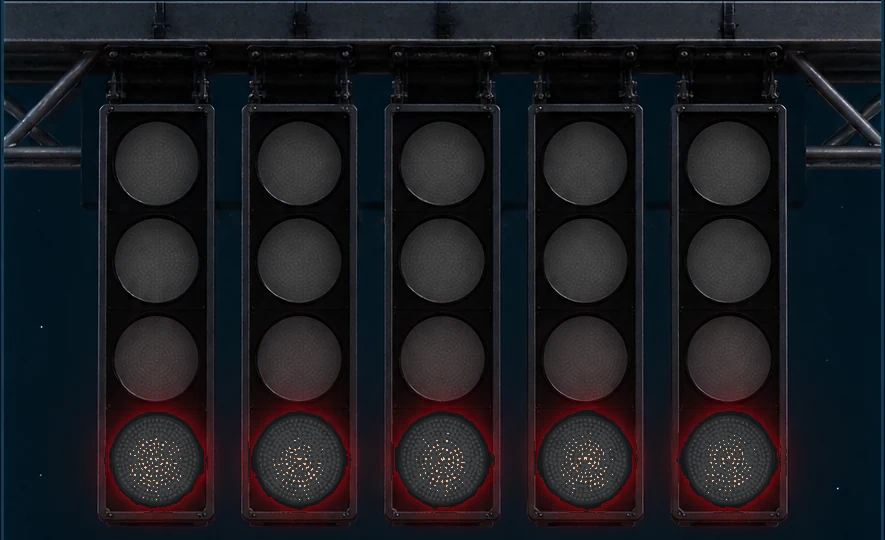
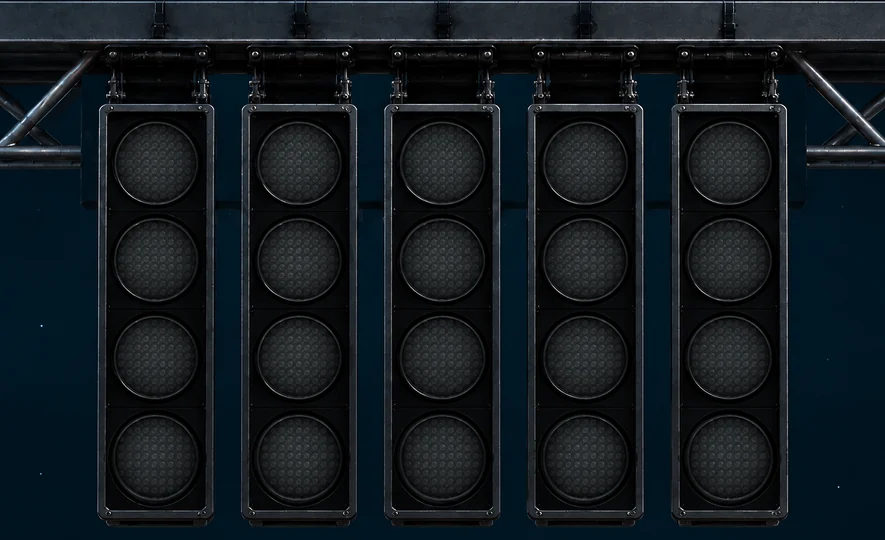
Add files via upload

diff --git a/src/styles.css b/src/styles.css
@@ -182,7 +182,7 @@ button:disabled{cursor:not-allowed;opacity:.38;}
 .spirit-stability{margin:0 0 8px;min-height:18px;font-weight:700;text-align:center;}.tanks-wrap{position:relative;overflow:visible;}.tanks{display:flex;align-items:flex-end;justify-content:center;gap:11px;padding:14px 5px 8px;}.tank{width:62px;position:relative;overflow:visible;transition:transform .18s ease;}.tank-vessel{position:absolute;left:0;right:0;bottom:0;top:14px;border:1px solid #5a8493;border-radius:12px 12px 8px 8px;overflow:hidden;background:linear-gradient(90deg,rgba(255,255,255,.025),rgba(1,12,18,.72) 34%,rgba(1,12,18,.58) 70%,rgba(255,255,255,.035));box-shadow:inset 0 0 24px rgba(255,174,44,.025);transition:border-color .18s ease,box-shadow .18s ease;}.tank-vessel::after{content:"";position:absolute;top:9px;bottom:9px;left:50%;width:1px;background:rgba(255,255,255,.065);z-index:3;}.tank-spout{position:absolute;z-index:7;top:1px;left:50%;width:25px;height:14px;transform:translateX(-50%);border:1px solid #5a8493;border-bottom:0;border-radius:5px 5px 2px 2px;background:linear-gradient(180deg,#173947,#0a202a);box-shadow:inset 0 1px rgba(255,255,255,.07);}.tank-spout::after{content:"";position:absolute;left:4px;right:4px;top:4px;height:2px;background:rgba(112,207,236,.16);border-radius:2px;}.tank-glass{position:absolute;inset:7px;border-radius:7px;background:linear-gradient(90deg,rgba(255,255,255,.08),transparent 25%,transparent 70%,rgba(255,255,255,.04));z-index:3;pointer-events:none;}.tank-cap{position:absolute;left:9px;right:9px;top:0;height:6px;border-radius:0 0 4px 4px;background:rgba(113,180,202,.23);z-index:4;}.tank-fill{position:absolute;bottom:0;left:0;right:0;height:0;background:linear-gradient(180deg,#ffd56b 0%,#ffab31 34%,#ff8420 70%,#d85c13 100%);box-shadow:0 -5px 24px rgba(255,185,67,.25),0 0 28px rgba(255,128,24,.2);transition:height .3s cubic-bezier(.22,.75,.28,1);}.tank.full .tank-vessel{border-color:#ffb341;box-shadow:0 0 18px rgba(255,154,29,.18),inset 0 0 18px rgba(255,174,44,.06);}.tank.full .tank-spout{border-color:#d88f31;}.tank.active{transform:translateY(-3px);}.tank.active .tank-vessel{border-color:#ffd071;box-shadow:0 0 18px rgba(255,174,44,.16);}.tank.active .tank-spout{border-color:#ffd071;}.tank-smoke{position:absolute;z-index:10;left:50%;top:-20px;width:68px;height:76px;transform:translateX(-50%);pointer-events:none;}.tank-smoke i{position:absolute;left:50%;bottom:10px;width:25px;height:20px;border-radius:50%;opacity:0;background:radial-gradient(circle at 42% 44%,rgba(249,252,253,.92),rgba(190,208,215,.6) 42%,rgba(100,131,143,0) 73%);filter:blur(.7px);}.tank-smoke i:nth-child(2){margin-left:-15px;}.tank-smoke i:nth-child(3){margin-left:15px;}.tank.venting .tank-smoke i{animation:tankVent 1.18s ease-out both;}.tank.venting .tank-smoke i:nth-child(2){animation-delay:.08s;}.tank.venting .tank-smoke i:nth-child(3){animation-delay:.15s;}@keyframes tankVent{0%{opacity:0;transform:translate(-50%,18px) scale(.45)}15%{opacity:.95}55%{opacity:.7}100%{opacity:0;transform:translate(-50%,-48px) scale(1.75)}}.spirit-instruction{text-align:center;color:#a5c7d4;font-size:11px;line-height:1.45;letter-spacing:.03em;}.ab{display:grid;grid-template-columns:1fr 1fr;gap:12px;margin-top:0;}.charge{border-radius:12px;border:1px solid #b7671f;background:linear-gradient(180deg,#6a3213,#3b1b0b);color:#ffd08a;font-family:var(--display);}.charge:active{transform:translateY(1px);filter:brightness(1.25);}@media(max-width:390px){.tanks{height:328px;gap:8px;padding-left:2px;padding-right:2px;}.tank{width:54px;height:300px;}.tank-spout{width:22px;}.charge{height:82px;}}
 .comet-panel{padding:16px 14px 15px;overflow:hidden;}.comet-score{display:flex;align-items:center;justify-content:space-between;color:#8fb7c7;font-size:9px;letter-spacing:.16em;text-transform:uppercase;}.comet-score strong{color:var(--cyan);font-family:var(--display);font-size:17px;letter-spacing:.04em;}.comet-progress-track{display:grid;grid-template-columns:repeat(10,1fr);gap:4px;margin:8px 0 12px;}.comet-progress-track i{height:5px;border:1px solid #24536a;border-radius:3px;background:#071d2a;transition:.18s;}.comet-progress-track i.on{border-color:#62ef9d;background:#62ef9d;box-shadow:0 0 9px rgba(98,239,157,.34);}.comet-instruction{text-align:center;color:#a9cbd8;font-size:11px;line-height:1.45;margin-bottom:12px;}.comet-game{position:relative;border:1px solid #245b73;border-radius:13px;overflow:hidden;background:linear-gradient(180deg,#061725 0%,#071d2c 46%,#061722 100%);box-shadow:inset 0 0 28px rgba(31,129,168,.08);}.comet-game::before{content:"";position:absolute;inset:0;background:linear-gradient(90deg,transparent 24.7%,rgba(85,184,220,.12) 25%,transparent 25.3%,transparent 49.7%,rgba(85,184,220,.12) 50%,transparent 50.3%,transparent 74.7%,rgba(85,184,220,.12) 75%,transparent 75.3%),repeating-linear-gradient(180deg,transparent 0 34px,rgba(61,149,184,.025) 34px 35px);pointer-events:none;}.comet-lanes{position:absolute;inset:0;display:grid;grid-template-columns:repeat(4,1fr);}.comet-lane{position:relative;border-right:1px solid rgba(69,158,193,.08);transition:.16s;}.comet-lane:last-child{border-right:0;}.comet-lane-guide,.comet-btn-icon,.comet-chevron{position:relative;display:inline-block;width:40px;height:40px;}.comet-lane-guide{position:absolute;top:10px;left:50%;transform:translateX(-50%);opacity:.3;}.comet-lane-guide i,.comet-btn-icon i,.comet-chevron i{position:absolute;width:20px;height:20px;border-top:6px solid currentColor;border-right:6px solid currentColor;left:50%;top:50%;transform-origin:center;}.comet-lane-guide i:first-child,.comet-btn-icon i:first-child,.comet-chevron i:first-child{transform:translate(-65%,-50%) rotate(45deg);}.comet-lane-guide i:last-child,.comet-btn-icon i:last-child,.comet-chevron i:last-child{transform:translate(-10%,-50%) rotate(45deg);}.comet-guide-left,.comet-btn-left .comet-btn-icon,.comet-note.left .comet-chevron{transform:rotate(180deg);}.comet-guide-down,.comet-btn-down .comet-btn-icon,.comet-note.down .comet-chevron{transform:rotate(90deg);}.comet-guide-up,.comet-btn-up .comet-btn-icon,.comet-note.up .comet-chevron{transform:rotate(-90deg);}.comet-guide-right,.comet-btn-right .comet-btn-icon,.comet-note.right .comet-chevron{transform:rotate(0deg);}.comet-lane-guide{color:rgba(126,224,255,.82);filter:drop-shadow(0 0 10px rgba(89,221,255,.38));}.comet-lane.hit{background:linear-gradient(180deg,transparent 38%,rgba(81,234,142,.03),rgba(81,234,142,.14));}.comet-lane.miss{background:linear-gradient(180deg,transparent 45%,rgba(244,95,75,.02),rgba(244,95,75,.12));}.comet-capture-line{position:absolute;z-index:3;left:0;right:0;top:78%;height:52px;transform:translateY(-50%);border-top:1px solid rgba(105,225,255,.75);border-bottom:1px solid rgba(105,225,255,.75);background:rgba(42,175,218,.08);box-shadow:0 0 20px rgba(69,205,246,.08),inset 0 0 18px rgba(69,205,246,.05);pointer-events:none;}.comet-capture-line span{position:absolute;right:7px;top:5px;font-size:7px;letter-spacing:.16em;color:#70cce9;}.comet-notes{position:absolute;inset:0;z-index:5;}.comet-note{position:absolute;top:2%;width:72px;height:72px;margin-left:-36px;border:1px solid rgba(94,224,255,.82);border-radius:14px;background:radial-gradient(circle at 50% 38%,rgba(22,154,215,.26),rgba(8,31,49,.9) 74%);display:grid;place-items:center;opacity:0;box-shadow:0 0 24px rgba(67,218,255,.28),inset 0 0 18px rgba(67,218,255,.08);will-change:top,left,transform;}.comet-note.active{opacity:1;}.comet-chevron{color:#ecfcff;filter:drop-shadow(0 0 4px rgba(190,249,255,.95)) drop-shadow(0 0 12px rgba(74,223,255,.95)) drop-shadow(0 0 22px rgba(40,178,255,.55));}.comet-tail{position:absolute;left:50%;bottom:100%;transform:translateX(-50%);width:8px;height:58px;border-radius:999px;background:linear-gradient(180deg,transparent,rgba(66,214,255,.88) 68%,rgba(66,214,255,.16));opacity:.62;filter:blur(.2px);}.comet-note::after{content:"";position:absolute;inset:7px;border:1px solid rgba(144,234,255,.16);border-radius:9px;}.comet-note.hit{opacity:1;border-color:#67ef9e;background:radial-gradient(circle at 50% 38%,rgba(68,207,123,.45),rgba(10,48,32,.96) 72%);transform:scale(1.14);box-shadow:0 0 24px rgba(79,238,145,.36);transition:.16s;}.comet-note.hit .comet-chevron{color:#effff5;}.comet-note.miss{opacity:.16;border-color:#e86b5a;transform:scale(.82);transition:.18s;}.comet-note.miss .comet-chevron{color:#f6b0a8;}.comet-hit-flash{position:absolute;z-index:2;inset:auto 0 16% 0;height:26%;opacity:0;background:radial-gradient(ellipse at center,rgba(88,244,154,.22),transparent 66%);pointer-events:none;}.comet-hit-flash.active{animation:cometFlash .3s ease-out;}@keyframes cometFlash{0%{opacity:0;transform:scale(.7)}35%{opacity:1}100%{opacity:0;transform:scale(1.15)}}.comet-game.complete .comet-capture-line{border-color:#66ef9d;background:rgba(83,236,145,.12);box-shadow:0 0 26px rgba(83,236,145,.2);}.comet-controls{display:grid;grid-template-columns:repeat(4,1fr);gap:8px;margin-top:10px;}.comet-btn{height:62px;border:1px solid #2f6b84;border-radius:10px;background:#09283a;color:#d8f7ff;transition:.12s;display:grid;place-items:center;}.comet-btn .comet-btn-icon{color:#e8fbff;filter:drop-shadow(0 0 5px rgba(170,246,255,.75)) drop-shadow(0 0 13px rgba(61,214,255,.48));}.comet-btn:active{transform:translateY(1px);border-color:var(--cyan);background:#0d3a52;}.comet-btn:disabled{opacity:.55;}.comet-state{text-align:center;margin-top:10px;}.sequence-box{display:none;}.arrow-pad{display:none;}@media(max-width:390px){.comet-game{height:360px;}.comet-note{width:64px;height:64px;margin-left:-32px;}.comet-btn{height:58px;}.comet-lane-guide,.comet-btn-icon,.comet-chevron{width:34px;height:34px;}.comet-lane-guide i,.comet-btn-icon i,.comet-chevron i{width:17px;height:17px;border-top-width:5px;border-right-width:5px;}}
 .jingle-stack{display:grid;}.jingle-stage{border:1px solid #245c73;border-radius:12px;background:linear-gradient(180deg,#071d2a,#051824);transition:.2s;}.jingle-stage.standby{opacity:.48;}.jingle-stage.active{border-color:#46cfff;box-shadow:inset 0 0 18px rgba(53,191,235,.05);}.jingle-stage.locked{border-color:#2f8a68;background:linear-gradient(180deg,#08281f,#061c18);}.jingle-stage-head{display:flex;align-items:center;justify-content:space-between;gap:10px;color:#8fc9dd;font-size:9px;letter-spacing:.15em;text-transform:uppercase;}.jingle-stage-head span{min-width:0;}.jingle-stage-head strong{font-family:var(--display);font-size:14px;color:#dff9ff;}.jingle-stage-head em{font-style:normal;font-size:8px;color:#6f97a7;}.jingle-stage.active .jingle-stage-head em{color:var(--cyan);}.jingle-stage.locked .jingle-stage-head em,.jingle-stage.locked .jingle-stage-head strong{color:var(--green);}.sync-lane{border:1px solid #245c73;border-radius:10px;position:relative;background:linear-gradient(180deg,#061d2a,#041723);overflow:hidden;}.flight-zone{position:absolute;left:42%;width:16%;top:0;bottom:0;background:rgba(73,236,139,.13);border-left:1px solid rgba(73,236,139,.6);border-right:1px solid rgba(73,236,139,.6);}.pulse-dot{position:absolute;left:0;top:50%;transform:translate(-50%,-50%);width:16px;height:16px;border-radius:50%;background:#e7fbff;box-shadow:0 0 10px white,0 0 20px #70dcff;opacity:.22;}.pulse-dot.active{opacity:1;}.pulse-dot.locked{opacity:1;background:#67ef9e;box-shadow:0 0 10px rgba(103,239,158,.9),0 0 22px rgba(103,239,158,.55);}.jingle-stage.locked .flight-zone{background:rgba(73,236,139,.2);border-color:#67ef9e;}.jingle-panel .signal-state{text-align:center;}@media(max-width:390px){.jingle-stack{gap:10px;}.jingle-stage{padding:9px;}.sync-lane{height:68px;}}
-.lando-round-head{display:flex;align-items:center;justify-content:space-between;gap:12px;color:#8fb7c7;font-size:9px;letter-spacing:.17em;text-transform:uppercase;}.lando-round-head strong{font-family:var(--display);font-size:17px;color:var(--cyan);letter-spacing:.06em;}.lando-gantry-art{position:relative;width:100%;max-width:560px;aspect-ratio:885/540;overflow:hidden;border-radius:10px;background:#04131f;border:1px solid #21485b;}.lando-gantry-art>img{display:block;width:100%;height:100%;object-fit:cover;object-position:center;}.lando-light-overlay{position:absolute;inset:0;pointer-events:none;}.lando-lamp{position:absolute;width:9.35%;aspect-ratio:1;border-radius:50%;transform:translate(-50%,-50%);opacity:1;border:1px solid rgba(255,255,255,.045);background:radial-gradient(circle,rgba(222,238,244,.11) 0 1px,transparent 1.45px) 0 0/4px 4px,radial-gradient(circle at 50% 50%,#2b3033 0 55%,#171b1e 68%,#090b0d 82%,#020304 100%);box-shadow:0 0 0 6px rgba(2,7,10,.42),0 0 17px 9px rgba(2,7,10,.5),inset 0 0 15px rgba(0,0,0,.92),inset 0 1px 3px rgba(255,255,255,.05);filter:none;transition:background .1s ease,border-color .1s ease,box-shadow .1s ease,filter .1s ease;}.lando-lamp[data-col="0"]{left:17.5%;}.lando-lamp[data-col="1"]{left:33.9%;}.lando-lamp[data-col="2"]{left:50.3%;}.lando-lamp[data-col="3"]{left:66.7%;}.lando-lamp[data-col="4"]{left:83.1%;}.lando-lamp[data-row="0"]{top:30.5%;}.lando-lamp[data-row="1"]{top:48.3%;}.lando-lamp[data-row="2"]{top:66.3%;}.lando-lamp[data-row="3"]{top:85.0%;}.lando-lamp.red{border-color:rgba(255,87,96,.42);background:radial-gradient(circle,rgba(255,235,236,.36) 0 1px,transparent 1.45px) 0 0/4px 4px,linear-gradient(180deg,rgba(255,255,255,.08),transparent 34%),radial-gradient(circle at 50% 50%,#ff303a 0 56%,#ea101d 70%,#a0000d 86%,#5c0007 100%);box-shadow:0 0 0 2px rgba(255,45,57,.2),0 0 13px rgba(255,35,47,.88),0 0 30px rgba(255,24,38,.6),0 0 52px rgba(255,24,38,.26),inset 0 0 10px rgba(255,174,178,.16),inset 0 -7px 13px rgba(98,0,8,.3);filter:saturate(1.08) brightness(1.04);}.lando-lamp.green{border-color:rgba(105,244,159,.42);background:radial-gradient(circle,rgba(235,255,243,.36) 0 1px,transparent 1.45px) 0 0/4px 4px,linear-gradient(180deg,rgba(255,255,255,.08),transparent 34%),radial-gradient(circle at 50% 50%,#53ef91 0 56%,#27d875 70%,#078d44 86%,#034d25 100%);box-shadow:0 0 0 2px rgba(74,230,137,.18),0 0 13px rgba(70,239,140,.82),0 0 30px rgba(50,221,121,.5),0 0 50px rgba(50,221,121,.22),inset 0 0 10px rgba(205,255,225,.15),inset 0 -7px 13px rgba(0,75,31,.28);filter:saturate(1.06) brightness(1.03);}.reaction-read{font-family:var(--display);line-height:1;text-align:center;color:#dff9ff;}.reaction-read small{font-size:14px;color:#78a3b5;margin-left:4px;}.lando-state{text-align:center;}.lando-results{display:grid;grid-template-columns:repeat(4,1fr);gap:7px;}.lando-result{border:1px solid #234e62;border-radius:10px;background:#061b28;text-align:center;opacity:.5;transition:.18s;}.lando-result strong{display:block;font-family:var(--display);font-size:17px;color:#91b8c7;}.lando-result span{display:block;margin-top:3px;font-size:7px;letter-spacing:.11em;text-transform:uppercase;color:#6f96a6;white-space:nowrap;}.lando-result.active{opacity:1;border-color:#46cfff;}.lando-result.active strong,.lando-result.active span{color:var(--cyan);}.lando-result.complete{opacity:1;border-color:#378865;background:#07241b;}.lando-result.complete strong,.lando-result.complete span{color:var(--green);}@media(max-width:390px){.lando-gantry-art{margin-top:12px;}.lando-lamp{width:9.55%;}.reaction-read{font-size:44px;}.lando-results{gap:5px;}.lando-result{padding:8px 3px;}.lando-result strong{font-size:15px;}.lando-result span{font-size:6.5px;}}
+.lando-round-head{display:flex;align-items:center;justify-content:space-between;gap:12px;color:#8fb7c7;font-size:9px;letter-spacing:.17em;text-transform:uppercase;}.lando-round-head strong{font-family:var(--display);font-size:17px;color:var(--cyan);letter-spacing:.06em;}.lando-gantry-art{position:relative;width:100%;max-width:560px;aspect-ratio:885/540;overflow:hidden;border-radius:10px;background:#04131f;border:1px solid #21485b;}.lando-gantry-art>img{display:block;width:100%;height:100%;object-fit:cover;object-position:center;}.lando-light-overlay{position:absolute;inset:0;pointer-events:none;}.lando-lamp{position:absolute;width:9.35%;aspect-ratio:1;border-radius:50%;transform:translate(-50%,-50%);opacity:1;border:1px solid rgba(255,255,255,.045);background:radial-gradient(circle,rgba(222,238,244,.11) 0 1px,transparent 1.45px) 0 0/4px 4px,radial-gradient(circle at 50% 50%,#2b3033 0 55%,#171b1e 68%,#090b0d 82%,#020304 100%);box-shadow:0 0 0 6px rgba(2,7,10,.42),0 0 17px 9px rgba(2,7,10,.5),inset 0 0 15px rgba(0,0,0,.92),inset 0 1px 3px rgba(255,255,255,.05);filter:none;transition:background .1s ease,border-color .1s ease,box-shadow .1s ease,filter .1s ease;}.lando-lamp[data-col="0"]{left:17.6%;}.lando-lamp[data-col="1"]{left:33.8%;}.lando-lamp[data-col="2"]{left:50%;}.lando-lamp[data-col="3"]{left:66.1%;}.lando-lamp[data-col="4"]{left:82.4%;}.lando-lamp[data-row="0"]{top:30.4%;}.lando-lamp[data-row="1"]{top:48.1%;}.lando-lamp[data-row="2"]{top:66.1%;}.lando-lamp[data-row="3"]{top:84.9%;}.lando-lamp.red{border-color:rgba(255,87,96,.42);background:radial-gradient(circle,rgba(255,235,236,.36) 0 1px,transparent 1.45px) 0 0/4px 4px,linear-gradient(180deg,rgba(255,255,255,.08),transparent 34%),radial-gradient(circle at 50% 50%,#ff303a 0 56%,#ea101d 70%,#a0000d 86%,#5c0007 100%);box-shadow:0 0 0 2px rgba(255,45,57,.2),0 0 13px rgba(255,35,47,.88),0 0 30px rgba(255,24,38,.6),0 0 52px rgba(255,24,38,.26),inset 0 0 10px rgba(255,174,178,.16),inset 0 -7px 13px rgba(98,0,8,.3);filter:saturate(1.08) brightness(1.04);}.lando-lamp.green{border-color:rgba(105,244,159,.42);background:radial-gradient(circle,rgba(235,255,243,.36) 0 1px,transparent 1.45px) 0 0/4px 4px,linear-gradient(180deg,rgba(255,255,255,.08),transparent 34%),radial-gradient(circle at 50% 50%,#53ef91 0 56%,#27d875 70%,#078d44 86%,#034d25 100%);box-shadow:0 0 0 2px rgba(74,230,137,.18),0 0 13px rgba(70,239,140,.82),0 0 30px rgba(50,221,121,.5),0 0 50px rgba(50,221,121,.22),inset 0 0 10px rgba(205,255,225,.15),inset 0 -7px 13px rgba(0,75,31,.28);filter:saturate(1.06) brightness(1.03);}.reaction-read{font-family:var(--display);line-height:1;text-align:center;color:#dff9ff;}.reaction-read small{font-size:14px;color:#78a3b5;margin-left:4px;}.lando-state{text-align:center;}.lando-results{display:grid;grid-template-columns:repeat(4,1fr);gap:7px;}.lando-result{border:1px solid #234e62;border-radius:10px;background:#061b28;text-align:center;opacity:.5;transition:.18s;}.lando-result strong{display:block;font-family:var(--display);font-size:17px;color:#91b8c7;}.lando-result span{display:block;margin-top:3px;font-size:7px;letter-spacing:.11em;text-transform:uppercase;color:#6f96a6;white-space:nowrap;}.lando-result.active{opacity:1;border-color:#46cfff;}.lando-result.active strong,.lando-result.active span{color:var(--cyan);}.lando-result.complete{opacity:1;border-color:#378865;background:#07241b;}.lando-result.complete strong,.lando-result.complete span{color:var(--green);}@media(max-width:390px){.lando-gantry-art{margin-top:12px;}.lando-lamp{width:9.55%;}.reaction-read{font-size:44px;}.lando-results{gap:5px;}.lando-result{padding:8px 3px;}.lando-result strong{font-size:15px;}.lando-result span{font-size:6.5px;}}
 .beacons{display:grid;grid-template-columns:1fr 1fr;gap:18px;padding:20px 25px;}.beacon{aspect-ratio:1;border-radius:50%;border:1px solid #346b88;background:radial-gradient(circle,#0c3a52 0 20%,#071c2c 55%,#04131f 100%);box-shadow:0 0 22px rgba(62,188,235,.08);color:#bcefff;font-family:var(--display);font-size:20px;}.beacon.flash,.beacon.correct{border-color:#b3fbff;background:radial-gradient(circle,#c4ffff 0 9%,#4ad8ff 20%,#0d4c68 50%,#061726 72%);box-shadow:0 0 30px rgba(77,222,255,.55);}.beacon.correct{border-color:#76f3a0;box-shadow:0 0 30px rgba(90,241,145,.35);}
 .verify-list{display:grid;gap:7px;margin:12px 0;}.verify{display:flex;justify-content:space-between;align-items:center;padding:10px 11px;border:1px solid #214f64;border-radius:8px;background:#061e2c;font-size:10px;letter-spacing:.08em;text-transform:uppercase;}.verify span:last-child{color:#6c93a3;}.verify.ok{border-color:#2e795d;}.verify.ok span:last-child{color:var(--green);}
 

diff --git a/index.html b/index.html
@@ -7,7 +7,7 @@
   <meta name="apple-mobile-web-app-capable" content="yes" />
   <meta name="apple-mobile-web-app-status-bar-style" content="black-translucent" />
   <link rel="manifest" href="./manifest.webmanifest" />
-  <link rel="stylesheet" href="./src/styles.css?v=7.7.0" />
+  <link rel="stylesheet" href="./src/styles.css?v=7.7.1" />
   <title>Silverstone Mission Control</title>
 </head>
 <body>
@@ -40,6 +40,6 @@
       }
     })();
   </script>
-  <script src="./src/main.js?v=7.7.0" defer></script>
+  <script src="./src/main.js?v=7.7.1" defer></script>
 </body>
 </html>

diff --git a/CHANGELOG.md b/CHANGELOG.md
@@ -1,3 +1,11 @@
+# Pass 7-07-01
+
+- Replaced the MC-09 gantry base artwork with a clean premium all-off gantry asset.
+- Removed baked-in red glow from the lower lamps; inactive lights are now fully neutral.
+- Re-aligned CSS lamp overlays to the replacement gantry lens centres.
+- Preserved the flatter diffuser-style active red/green illumination from 7-07-00.
+- No gameplay or timing changes.
+
 # Pass 7-07-00
 
 - MC-09 Lightspeed Lando light-treatment refresh only; reaction timing and gameplay are unchanged.
